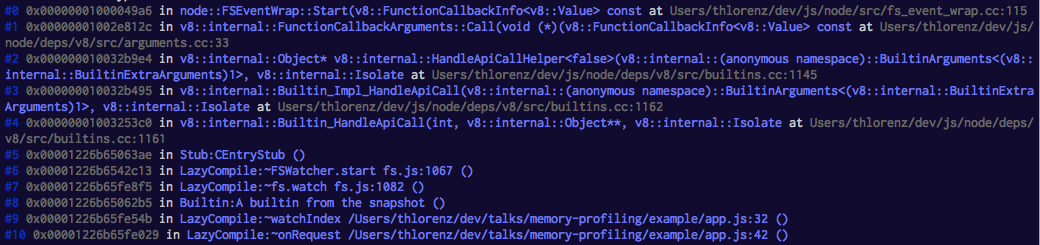
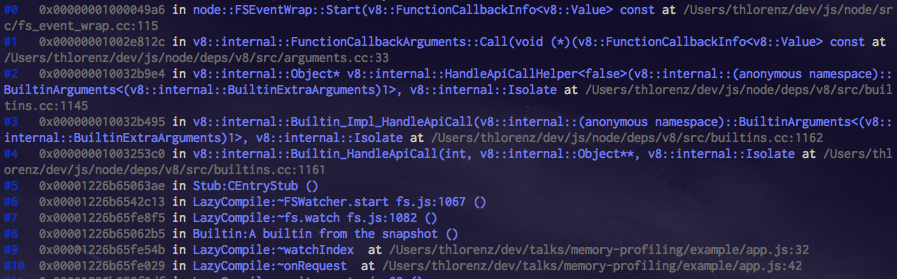
improving lldb tracing regarding file paths

diff --git a/pretty-trace.js b/pretty-trace.js
@@ -1,8 +1,9 @@
 'use strict';
 var colors = require('ansicolors');
 
-//                #10  0x1234a23b in node::Parser::on_headers_complete(http_parser*) at node_http_parser.cc:241
-var lldbRegex = /^#(:?\d+\W+)(:?0x(?:(?:\d|[abcdefABCDEF]){0,2})+)\W+in\W+(:?.+?)(?:\W+at\W+(:?.+)){0,1}$/m
+//                #9  0x00001226b65fe54b in LazyCompile:~watchIndex /Users/thlorenz/dev/talks/memory-profiling/example/app.js:32 ()
+//                #10 0x1234a23b in node::Parser::on_headers_complete(http_parser*) at node_http_parser.cc:241
+var lldbRegex = /^#(:?\d+\W+)(:?0x(?:(?:\d|[abcdefABCDEF]){0,2})+)\W+in\W+(:?.+?)(?:\W+at\W+(:?.+)){0,1}(?:(:?(?:[/\\][^/\\]+?)+\:\d+)\W+\(\)){0,1}$/m
 
 // Captures include white space to maintain indentation
 //                        67.0ms   97.1%,0, ,     node::TimerWrap::OnTimeout(uv_timer_s*)
@@ -33,7 +34,15 @@ function prettyLine(line, theme) {
   if (!theme) throw new Error('Please supply a theme');
 
   if (lldbRegex.test(line)) { 
-    return line.replace(lldbRegex, function (match, number, address, symbol, location) {
+    return line.replace(lldbRegex, function (match, number, address, symbol, location, jitLocation) {
+      var fc;
+      location = location || jitLocation;
+      if (location) {
+        // complete file path to make it clickable in the terminal and browser
+        fc = location.slice(0, 1)
+        location = fc != '/' && fc != '~' ? '/' + location : location;
+      }
+
       return  theme.number('#' + number) + ' ' 
             + theme.address(address)
             + ' in ' + theme.symbol(symbol)
@@ -97,6 +106,9 @@ exports.terminalTheme = {
 
 function spanClass(clazz, link) {
   return function span(x) {
+    if (link) { 
+      x = '<a href="file://' + x.split(':')[0] +'">' + x + '</a>';
+    }
     return '<span class="' + clazz + '">' + x + '</span>';
   }
 }
@@ -111,7 +123,7 @@ exports.htmlTheme = {
   , number   : spanClass('trace-number')
   , address  : spanClass('trace-address')
   , symbol   : spanClass('trace-symbol')
-  , location : spanClass('trace-location')
+  , location : spanClass('trace-location', true)
 }
 
 /**

diff --git a/test/pretty-trace.js b/test/pretty-trace.js
@@ -22,6 +22,7 @@ test('\nlldb trace single line', function (t) {
   var p;
   var inAtLine = '#0  0x00000001000049a6 in node::FSEventWrap::Start(v8::FunctionCallbackInfo<v8::Value> const&) at /Users/thlorenz/dev/js/node/src/fs_event_wrap.cc:115'
   var inLine = '#6  0x00001226b6542c13 in LazyCompile:~FSWatcher.start fs.js:1067 ()'
+  var inLineWithPath = '#9   0x00001226b65fe54b in LazyCompile:~watchIndex /Users/thlorenz/dev/talks/memory-profiling/example/app.js:32 ()'
 
   p = pretty.line(inAtLine, testTheme)
 
@@ -29,7 +30,7 @@ test('\nlldb trace single line', function (t) {
     , '-number #0   number- ' +
       '-address 0x00000001000049a6 address- ' +
       'in -symbol node::FSEventWrap::Start(v8::FunctionCallbackInfo<v8::Value> const symbol- ' +
-      'at -location Users/thlorenz/dev/js/node/src/fs_event_wrap.cc:115 location-'
+      'at -location /Users/thlorenz/dev/js/node/src/fs_event_wrap.cc:115 location-'
     , 'correctly prettifies "#x 0x0000 in ... at ..." type trace'
   )
 
@@ -41,6 +42,18 @@ test('\nlldb trace single line', function (t) {
       'in -symbol LazyCompile:~FSWatcher.start fs.js:1067 () symbol-'
     , 'correclty prettifies "#x 0x0000 in ..." type trace'
   )
+
+  p = pretty.line(inLineWithPath, testTheme)
+
+  t.equal(p
+    , '-number #9    number- ' +
+      '-address 0x00001226b65fe54b address- ' +
+      'in -symbol LazyCompile:~watchIndex  symbol- ' +
+      'at -location /Users/thlorenz/dev/talks/memory-profiling/example/app.js:32 location-'
+    , 'correctly prettifies "#x 0x0000 in ... /path/to/file:xx" type trace"'
+  )
+
+
   t.end()
 })
 

diff --git a/README.md b/README.md
@@ -52,7 +52,7 @@ cat ./test/fixtures/lldb-trace.txt | pretty-trace
 <li>
 <a href="https://github.com/thlorenz/pretty-trace/blob/master/pretty-trace.js">pretty-trace.js</a>
 <span>, </span>
-<a href="https://github.com/thlorenz/pretty-trace/blob/master/pretty-trace.js#L117">lineno 117</a>
+<a href="https://github.com/thlorenz/pretty-trace/blob/master/pretty-trace.js#L129">lineno 129</a>
 </li>
 </ul></dd>
 </dl>
@@ -70,7 +70,7 @@ cat ./test/fixtures/lldb-trace.txt | pretty-trace
 <li>
 <a href="https://github.com/thlorenz/pretty-trace/blob/master/pretty-trace.js">pretty-trace.js</a>
 <span>, </span>
-<a href="https://github.com/thlorenz/pretty-trace/blob/master/pretty-trace.js#L104">lineno 104</a>
+<a href="https://github.com/thlorenz/pretty-trace/blob/master/pretty-trace.js#L116">lineno 116</a>
 </li>
 </ul></dd>
 </dl>
@@ -88,7 +88,7 @@ cat ./test/fixtures/lldb-trace.txt | pretty-trace
 <li>
 <a href="https://github.com/thlorenz/pretty-trace/blob/master/pretty-trace.js">pretty-trace.js</a>
 <span>, </span>
-<a href="https://github.com/thlorenz/pretty-trace/blob/master/pretty-trace.js#L124">lineno 124</a>
+<a href="https://github.com/thlorenz/pretty-trace/blob/master/pretty-trace.js#L136">lineno 136</a>
 </li>
 </ul></dd>
 </dl>
@@ -106,7 +106,7 @@ cat ./test/fixtures/lldb-trace.txt | pretty-trace
 <li>
 <a href="https://github.com/thlorenz/pretty-trace/blob/master/pretty-trace.js">pretty-trace.js</a>
 <span>, </span>
-<a href="https://github.com/thlorenz/pretty-trace/blob/master/pretty-trace.js#L131">lineno 131</a>
+<a href="https://github.com/thlorenz/pretty-trace/blob/master/pretty-trace.js#L143">lineno 143</a>
 </li>
 </ul></dd>
 </dl>
@@ -124,7 +124,7 @@ cat ./test/fixtures/lldb-trace.txt | pretty-trace
 <li>
 <a href="https://github.com/thlorenz/pretty-trace/blob/master/pretty-trace.js">pretty-trace.js</a>
 <span>, </span>
-<a href="https://github.com/thlorenz/pretty-trace/blob/master/pretty-trace.js#L85">lineno 85</a>
+<a href="https://github.com/thlorenz/pretty-trace/blob/master/pretty-trace.js#L94">lineno 94</a>
 </li>
 </ul></dd>
 </dl>
@@ -218,7 +218,7 @@ cat ./test/fixtures/lldb-trace.txt | pretty-trace
 <li>
 <a href="https://github.com/thlorenz/pretty-trace/blob/master/pretty-trace.js">pretty-trace.js</a>
 <span>, </span>
-<a href="https://github.com/thlorenz/pretty-trace/blob/master/pretty-trace.js#L17">lineno 17</a>
+<a href="https://github.com/thlorenz/pretty-trace/blob/master/pretty-trace.js#L18">lineno 18</a>
 </li>
 </ul></dd>
 </dl>
@@ -274,7 +274,7 @@ Type
 <li>
 <a href="https://github.com/thlorenz/pretty-trace/blob/master/pretty-trace.js">pretty-trace.js</a>
 <span>, </span>
-<a href="https://github.com/thlorenz/pretty-trace/blob/master/pretty-trace.js#L64">lineno 64</a>
+<a href="https://github.com/thlorenz/pretty-trace/blob/master/pretty-trace.js#L73">lineno 73</a>
 </li>
 </ul></dd>
 </dl>
